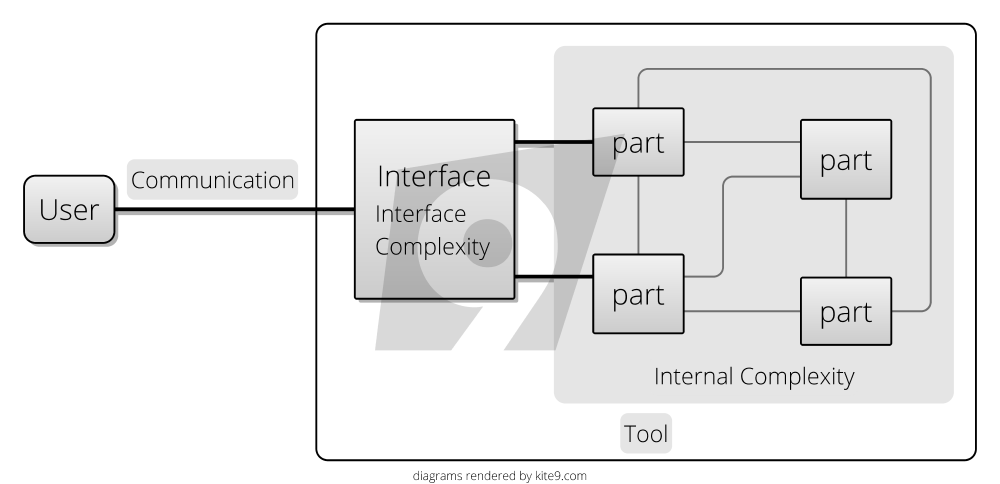
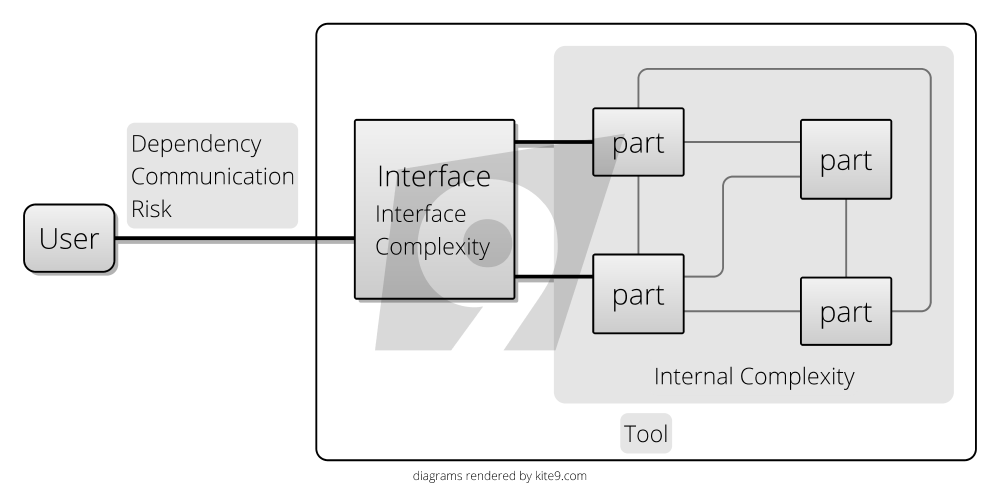
Software Dependency Risk

Changed region(s): [[0.0, 0.2479, 0.372, 0.5888]]

diff --git a/menagerie/Software-Dependency-Risk.md b/menagerie/Software-Dependency-Risk.md
@@ -50,7 +50,7 @@ function out() {                                             (7 symbols)
 1.  Clearly, _language matters_:  the Kolmogorov complexity is dependent on the language, and the features the language has built in.  
 2.  The exact Kolmogorov complexity is uncomputable anyway (it's the _theoretical_ minimum program length).  It's just a fairly abstract idea, so we shouldn't get too hung up on this.  There is no function to be able to say, "what's the Kolmogorov complexity of string X"
 3.  What is this new library function we've created?   Is `abcdRepeater` going to be part of _every_ Javascript?  If so, then we've shifted [Codebase Risk](Complexity-Risk) away from ourselves, but we've pushed [Communication Risk](Communication-Risk) and [Dependency Risk](Dependency-Risk) onto every _other_ user of Javascript. (Why these?  Because `abcdRepeater` will be clogging up the documentation and other people will rely on it to function correctly.)
-4.  Are there equivalent functions for every single other string?  If so, then compilation is no longer a tractable problem: is `return abcdRepeater(10)` correct code?  Well, now we have a massive library of different `XXXRepeater` functions to compile against to see if it is...  So, what we _lose_ in [Kolmogorov Complexity](Complexity-Risk) we gain in [Big-O Complexity](Complexity-Risk).
+4.  Are there equivalent functions for every single other string?  If so, then compilation is no longer a tractable problem: is `return abcdRepeater(10)` correct code?  Well, now we have a massive library of different `XXXRepeater` functions to compile against to see if it is...  So, what we _lose_ in [Kolmogorov Complexity](Complexity-Risk) we gain in [Runtime Complexity](Complexity-Risk#space-and-time-complexity).
 5.  Language design, then, is about _ergonomics_.  After you have passed the relatively low bar of providing [Turing Completeness](https://en.wikipedia.org/wiki/Turing_completeness), the key is to provide _useful_ features that enable problems to be solved, without over-burdening the user with features they _don't_ need.  And in fact, all software is about this.
 
 ![Software Dependency Ergonomics:  finding the sweet spot between too many features and too few](images/kite9/software-dependency-ergonomics.png)
@@ -67,7 +67,7 @@ But outside, the form is simple, and designed for humans to use.   This is _[erg
 
 In the same way as with a hand-tool, the bulk of the complexity of a software tool is hidden behind it's interface.  But, the more complex the _purpose_ of the tool, the more complex the interface will be.
 
-Software is not constrained by _physical_ ergonomics in the same way as a tool is.  But ideally, it should have conceptual ergonomics:  ideally, complexity is hidden away from the user behind the API (Application Programming Interface).  This is the familiar concept of [Abstraction](Glossary#abstraction) we've already looked at.   
+Software is not constrained by _physical_ ergonomics in the same way as a tool is.  But ideally, it should have conceptual ergonomics:  ideally, complexity is hidden away from the user behind the [Application Programming Interface (API)](https://en.wikipedia.org/wiki/Application_programming_interface).  This is the familiar concept of [Abstraction](Glossary#abstraction) we've already looked at.   
 
 That is, the tool should be as simple to use and understand as possible.  This is the [Principal Of Least Astonishment](https://en.wikipedia.org/wiki/Principle_of_least_astonishment):
 
@@ -86,6 +86,8 @@ So, we now have split the complexity into two:
 ![Types of Complexity For a Software Dependency](images/kite9/software-dependency-complexity.png)
 
 The way to win, then, is to allow a language to be extensible as-needed with features written by third parties.  By supplying mechanisms for extension a language can provide insurances against the [Boundary Risk](Boundary-Risk) of adopting it. 
+
+As we discussed in the [C
 
 ## Types Of Software Dependencies
 
